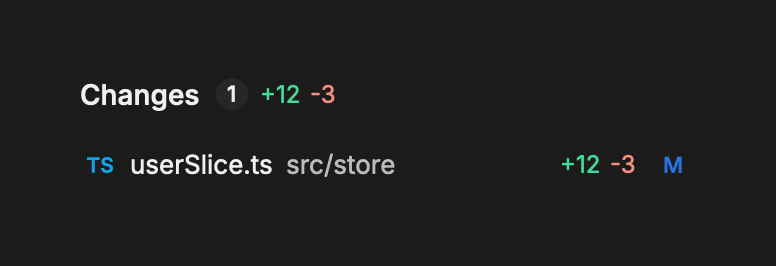
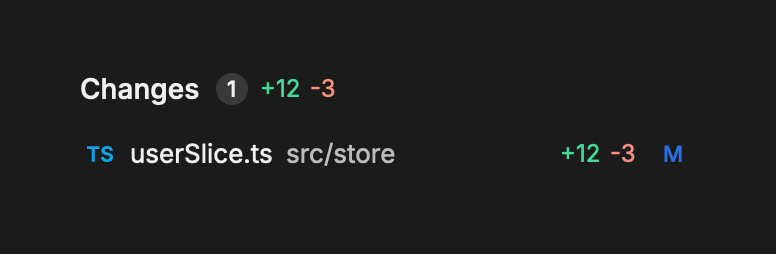
feat(but-ui-gpui): Badge, drawn as but-ui-react's
GPUI had only `count_badge`, a stand-in for React's light grey Badge,
and it filled its pill with `--but-gray-3`, a solid grey that vanished
on a canvas of the same grey. React fills it with `--but-neutral-soft`,
the text colour as a soft tint, which shows on any ground.

`badge` draws React's eight variants and two sizes from the same
tokens React's CSS reads, the large one at the small control's height
as `--but-size-tag` is, and `count_badge` is its light grey. The theme
gains `neutral_soft`, and the icons gain `question`.

The pantry's Badge page draws React's Default, All Variants, All
Sizes, With Icon and CI States stories under their ids, with their
shots on the site, and the file list's shots are taken again with the
new pill. A badge doesn't turn to the other scheme on a selected row,
so Inverted isn't there, and the spinner is the client's running dots.

diff --git a/crates/but-gpui/src/stories/badge.rs b/crates/but-gpui/src/stories/badge.rs
@@ -1,0 +1,129 @@
+use gpui::{AnyElement, Context, Div, Window, div, prelude::*};
+
+use super::{Example, example, page};
+use crate::theme::Theme;
+use crate::ui::{
+    BadgeSize, BadgeVariant, Icon, Text, badge, dp, h_flex, small_icon, spinning, v_flex,
+};
+
+/// The stories of `Badge.stories.tsx` this client can draw. Its badges don't turn to the other
+/// scheme's colours on a selected row, so `Inverted` isn't here. An icon takes the badge's text
+/// colour, which `svg` doesn't inherit, and the spinner is the client's own running dots.
+pub(super) const EXAMPLES: [Example; 5] = [
+    Example {
+        id: "components-badge--default",
+        name: "Default",
+        draw: |theme| {
+            regular(BadgeVariant::FillGray, theme)
+                .child("42")
+                .into_any_element()
+        },
+    },
+    Example {
+        id: "components-badge--all-variants",
+        name: "All Variants",
+        draw: |theme| {
+            row([
+                ("fillGray", BadgeVariant::FillGray),
+                ("lightGray", BadgeVariant::LightGray),
+                ("safe", BadgeVariant::Safe),
+                ("warn", BadgeVariant::Warn),
+                ("danger", BadgeVariant::Danger),
+                ("purple", BadgeVariant::Purple),
+                ("blue", BadgeVariant::Blue),
+            ]
+            .map(|(name, variant)| regular(variant, theme).child(name)))
+        },
+    },
+    Example {
+        id: "components-badge--all-sizes",
+        name: "All Sizes",
+        draw: |theme| {
+            row([
+                regular(BadgeVariant::FillGray, theme).child("regular"),
+                large(BadgeVariant::FillGray, theme).child("large"),
+                regular(BadgeVariant::Safe, theme).child("42"),
+                large(BadgeVariant::Safe, theme).child("42"),
+            ])
+        },
+    },
+    Example {
+        id: "components-badge--with-icon",
+        name: "With Icon",
+        draw: |theme| {
+            row([
+                regular(BadgeVariant::Safe, theme)
+                    .child(small_icon(Icon::Tick).text_color(theme.safe)),
+                regular(BadgeVariant::Danger, theme)
+                    .child(small_icon(Icon::Cross).text_color(theme.danger)),
+                regular(BadgeVariant::LightGray, theme).child(spinning(theme.text_1, true)),
+                regular(BadgeVariant::Warn, theme)
+                    .child(small_icon(Icon::Warning).text_color(theme.warn)),
+                (regular(BadgeVariant::Safe, theme))
+                    .child(small_icon(Icon::Tick).text_color(theme.safe))
+                    .child("Passed"),
+                (large(BadgeVariant::Safe, theme))
+                    .child(small_icon(Icon::Tick).text_color(theme.safe))
+                    .child("Passed"),
+            ])
+        },
+    },
+    Example {
+        id: "components-badge--ci-states",
+        name: "CI States",
+        draw: |theme| {
+            v_flex()
+                .gap(dp(12.))
+                .children(
+                    [
+                        ("success", BadgeVariant::Safe, Some(Icon::Tick)),
+                        ("failure", BadgeVariant::Danger, Some(Icon::Cross)),
+                        ("in progress", BadgeVariant::LightGray, None),
+                        ("in progress (some failed)", BadgeVariant::Danger, None),
+                        ("cancelled", BadgeVariant::LightGray, Some(Icon::Cross)),
+                        ("action required", BadgeVariant::Warn, Some(Icon::Warning)),
+                        ("unknown", BadgeVariant::LightGray, Some(Icon::Question)),
+                    ]
+                    .map(|(label, variant, icon)| {
+                        let color = variant.colors(theme).1;
+                        let mark = match icon {
+                            Some(icon) => small_icon(icon).text_color(color).into_any_element(),
+                            None => spinning(color, true).into_any_element(),
+                        };
+                        h_flex()
+                            .gap(dp(8.))
+                            .items_center()
+                            .child(regular(variant, theme).child(mark))
+                            .child(div().text_12().child(label))
+                    }),
+                )
+                .into_any_element()
+        },
+    },
+];
+
+fn regular(variant: BadgeVariant, theme: &Theme) -> Div {
+    badge(variant, BadgeSize::Regular, theme)
+}
+
+fn large(variant: BadgeVariant, theme: &Theme) -> Div {
+    badge(variant, BadgeSize::Large, theme)
+}
+
+/// Badges side by side, 8px apart, as the stories lay them out.
+fn row(badges: impl IntoIterator<Item = Div>) -> AnyElement {
+    h_flex()
+        .gap(dp(8.))
+        .items_center()
+        .children(badges)
+        .into_any_element()
+}
+
+pub struct BadgeStory;
+
+impl Render for BadgeStory {
+    fn render(&mut self, _: &mut Window, cx: &mut Context<Self>) -> impl IntoElement {
+        let theme = Theme::get(cx);
+        page(EXAMPLES.into_iter().map(|e| example(e, theme)))
+    }
+}

diff --git a/crates/but-ui-gpui/src/badge.rs b/crates/but-ui-gpui/src/badge.rs
@@ -1,24 +1,82 @@
-//! A count in a pill, as but-ui-react's `Badge`.
+//! A small pill carrying a count, a status or a short label, as but-ui-react's `Badge`: an icon
+//! leads the label or stands alone, and a badge is never a control.
 
-use gpui::{Div, div, prelude::*};
+use gpui::{Div, Hsla, div, prelude::*};
 
 use crate::theme::Theme;
 use crate::*;
 
-/// As but-ui-react's light grey `Badge`.
-pub fn count_badge(count: usize, theme: &Theme) -> Div {
-    div()
+/// As React's `BadgeVariant`. The label carries the colour over a soft tint of it.
+#[derive(Debug, Clone, Copy, PartialEq, Eq)]
+pub enum BadgeVariant {
+    /// The default: a count or a neutral label, with no verdict.
+    FillGray,
+    /// `FillGray`'s quieter twin, for the same counts where the solid one is too loud.
+    LightGray,
+    /// Something that came off or is fine.
+    Safe,
+    /// Something waiting on the user or at risk.
+    Warn,
+    /// Something that failed.
+    Danger,
+    /// Work that has landed, and what an agent wrote.
+    Purple,
+    /// Something calm and informational.
+    Blue,
+    /// The accent: at most one per surface.
+    Pop,
+}
+
+impl BadgeVariant {
+    /// The pill's fill and the colour its label and icon take, from the tokens React's CSS reads.
+    pub fn colors(self, theme: &Theme) -> (Hsla, Hsla) {
+        match self {
+            BadgeVariant::FillGray => (theme.fill_gray, theme.text_inverted),
+            BadgeVariant::LightGray => (theme.neutral_soft, theme.text_1),
+            BadgeVariant::Safe => (theme.safe_soft, theme.safe),
+            BadgeVariant::Warn => (theme.warn_soft, theme.warn),
+            BadgeVariant::Danger => (theme.danger_soft, theme.danger),
+            BadgeVariant::Purple => (theme.purple_soft, theme.purple),
+            BadgeVariant::Blue => (theme.blue_soft, theme.blue),
+            BadgeVariant::Pop => (theme.pop_soft, theme.pop),
+        }
+    }
+}
+
+/// As React's `BadgeSize`.
+#[derive(Debug, Clone, Copy, PartialEq, Eq, Default)]
+pub enum BadgeSize {
+    #[default]
+    Regular,
+    Large,
+}
+
+/// A badge; its label and icon are its children. An icon takes `variant.colors(theme).1`, as
+/// `svg` doesn't inherit the text colour.
+pub fn badge(variant: BadgeVariant, size: BadgeSize, theme: &Theme) -> Div {
+    let (fill, text) = variant.colors(theme);
+    let pill = div()
         .flex_none()
-        .h(dp(16.))
-        .min_w(dp(16.))
-        .px(dp(5.))
         .flex()
         .items_center()
         .justify_center()
+        .min_w(dp(16.))
         .rounded_full()
-        .bg(theme.muted)
-        .text_11()
-        .semibold()
-        .text_color(theme.text_1)
-        .child(count.to_string())
+        .bg(fill)
+        .text_color(text);
+    match size {
+        BadgeSize::Regular => pill.h(dp(16.)).px(dp(5.)).gap(dp(2.)).text_11(),
+        // `--but-size-tag`, which is the small control's height and follows the density.
+        BadgeSize::Large => pill
+            .h(dp(theme.sizes.control_sm))
+            .px(dp(7.))
+            .gap(dp(4.))
+            .text_12(),
+    }
+    .semibold()
+}
+
+/// A count, as React writes `<Badge variant="lightGray">`.
+pub fn count_badge(count: usize, theme: &Theme) -> Div {
+    badge(BadgeVariant::LightGray, BadgeSize::Regular, theme).child(count.to_string())
 }

diff --git a/crates/but-gpui/src/stories/mod.rs b/crates/but-gpui/src/stories/mod.rs
@@ -13,6 +13,7 @@
 
 mod activity;
 mod avatar;
+mod badge;
 mod button;
 mod checkbox;
 mod counts;
@@ -124,7 +125,9 @@ struct Example {
 
 /// Every story's examples.
 fn examples() -> impl Iterator<Item = Example> {
-    (button::EXAMPLES.into_iter()).chain(file_list::EXAMPLES)
+    (badge::EXAMPLES.into_iter())
+        .chain(button::EXAMPLES)
+        .chain(file_list::EXAMPLES)
 }
 
 /// An example under its name, as the docs site titles it.
@@ -174,6 +177,7 @@ impl Gallery {
         let stories = vec![
             story("Activity", activity::ActivityStory::default(), cx),
             story("Avatar", avatar::AvatarStory, cx),
+            story("Badge", badge::BadgeStory, cx),
             story("Button", button::ButtonStory, cx),
             story("Checkbox", checkbox::CheckboxStory::default(), cx),
             story("Counts and marks", counts::CountsStory, cx),

diff --git a/crates/but-ui-gpui/src/theme.rs b/crates/but-ui-gpui/src/theme.rs
@@ -49,6 +49,8 @@ pub struct Theme {
     pub muted_hover: Hsla,
     pub muted_on_solid: Hsla,
     pub hover_on_solid: Hsla,
+    /// `--but-neutral-soft`: the text colour as a soft tint, as a light grey badge's fill.
+    pub neutral_soft: Hsla,
     pub inverse_soft: Hsla,
     pub inverse_soft_hover: Hsla,
     pub scrollbar: Hsla,
@@ -683,6 +685,7 @@ impl Theme {
             muted_hover: halfway(on_ground!(MUTED), on_ground!(MUTED_NESTED)),
             muted_on_solid: token(on_ground!(INVERSE_MUTED_FOREGROUND)),
             hover_on_solid: token(on_ground!(INVERSE_GHOST_HOVER)),
+            neutral_soft: token(on_ground!(NEUTRAL_SOFT)),
             inverse_soft: token(on_ground!(INVERSE_SOFT)),
             inverse_soft_hover: token(on_ground!(INVERSE_SOFT_HOVER)),
             scrollbar: token(on_ground!(SCROLLBAR_THUMB)),

diff --git a/crates/but-ui-gpui/src/icon.rs b/crates/but-ui-gpui/src/icon.rs
@@ -97,6 +97,7 @@ icons! {
     Pr => "pr",
     PrClose => "pr-close",
     PrDraft => "pr-draft",
+    Question => "question",
     Refresh => "refresh",
     Repo => "repo",
     Search => "search",
